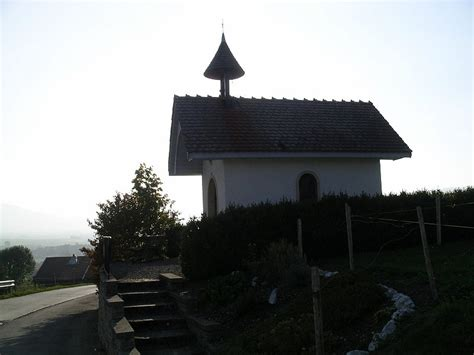
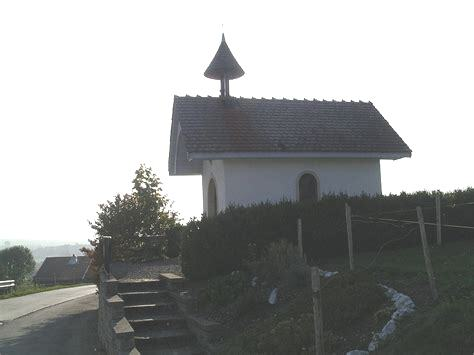
Brightness and contrast fixed

diff --git a/main.cpp b/main.cpp
@@ -541,7 +541,7 @@ void GBNR(Image& img, int mask_radius, char const* output_file)
 }
 
 //https://docs.opencv.org/3.4/d3/dc1/tutorial_basic_linear_transform.html
-void contrast(Image& img, double alpha, int beta, char const* output_file) 
+void contrast_brightness(Image& img, int gamma, int beta, char const* output_file) 
 {
     int w = img.columns();
     int h = img.rows();
@@ -560,9 +560,15 @@ void contrast(Image& img, double alpha, int beta, char const* output_file)
             int xy_r, xy_g, xy_b;
             get_rgb(pixels, w, h, y, x, xy_r, xy_g, xy_b);
 
-            r = xy_r*alpha + beta;
-            g = xy_g*alpha + beta;
-            b = xy_b*alpha + beta;
+            if (gamma != 0) {
+                r = xy_r + (xy_r-127)*gamma + beta;
+                g = xy_g + (xy_g-127)*gamma + beta;
+                b = xy_b + (xy_b-127)*gamma + beta;
+            } else {
+                r = xy_r + beta;
+                g = xy_g + beta;
+                b = xy_b + beta;
+            }
             
             set_rgb(result, w, h, y, x, r, g, b);
         }
@@ -772,9 +778,9 @@ void GBNR_driver()
     GBNR(image, mask_radius, out_c);
 }
 
-void contrast_driver()
+void contrast_brightness_driver()
 {
-    printf("Contrast Slider Tool\n");
+    printf("Contrast and Brightness Tool\n");
     InitializeMagick(nullptr);
     Image image;
 
@@ -803,11 +809,10 @@ void contrast_driver()
     out_str = string("images/") + out_str;
     char const* out_c = const_cast<char*>(out_str.c_str());
 
-    int alpha;
-    int beta;
-    prompt("\nEnter the alpha value", alpha);
-    prompt("\nEnter the beta value", beta);
-    contrast(image, alpha, beta, out_c);
+    int gamma, beta;
+    prompt("\nEnter the gamma value (for contrast) (recommended = 1)", gamma);
+    prompt("\nEnter the beta value (for brightness) (recommended +- 50)", beta);
+    contrast_brightness(image, gamma, beta, out_c);
 }
 
 void color_driver()
@@ -883,7 +888,7 @@ int main(int argc, char **argv)
     while(run)
     {
         int tool = 0;
-        char const* str = "\nEnter an integer to select a tool: \n\t0 : Exit \n\t1 : Additive White Gaussian Noise \n\t2 : Salt & Pepper Noise\n\t3 : Median Filtering Noise Removal\n\t4 : Gaussian Blur Noise Removal\n\t5 : Contrast Slider\n\t6 : Colormap Tool\n";  // feel free to add more options for your tools
+        char const* str = "\nEnter an integer to select a tool: \n\t0 : Exit \n\t1 : Additive White Gaussian Noise \n\t2 : Salt & Pepper Noise\n\t3 : Median Filtering Noise Removal\n\t4 : Gaussian Blur Noise Removal\n\t5 : Contrast and Brightness Sliders\n\t6 : Colormap Tool\n";  // feel free to add more options for your tools
         prompt(str, tool);
         //printf("input %i\n", tool);
         switch(tool)
@@ -914,7 +919,7 @@ int main(int argc, char **argv)
             
             case 5:
                 run = true;
-                contrast_driver();
+                contrast_brightness_driver();
                 break;
 
             case 6:
